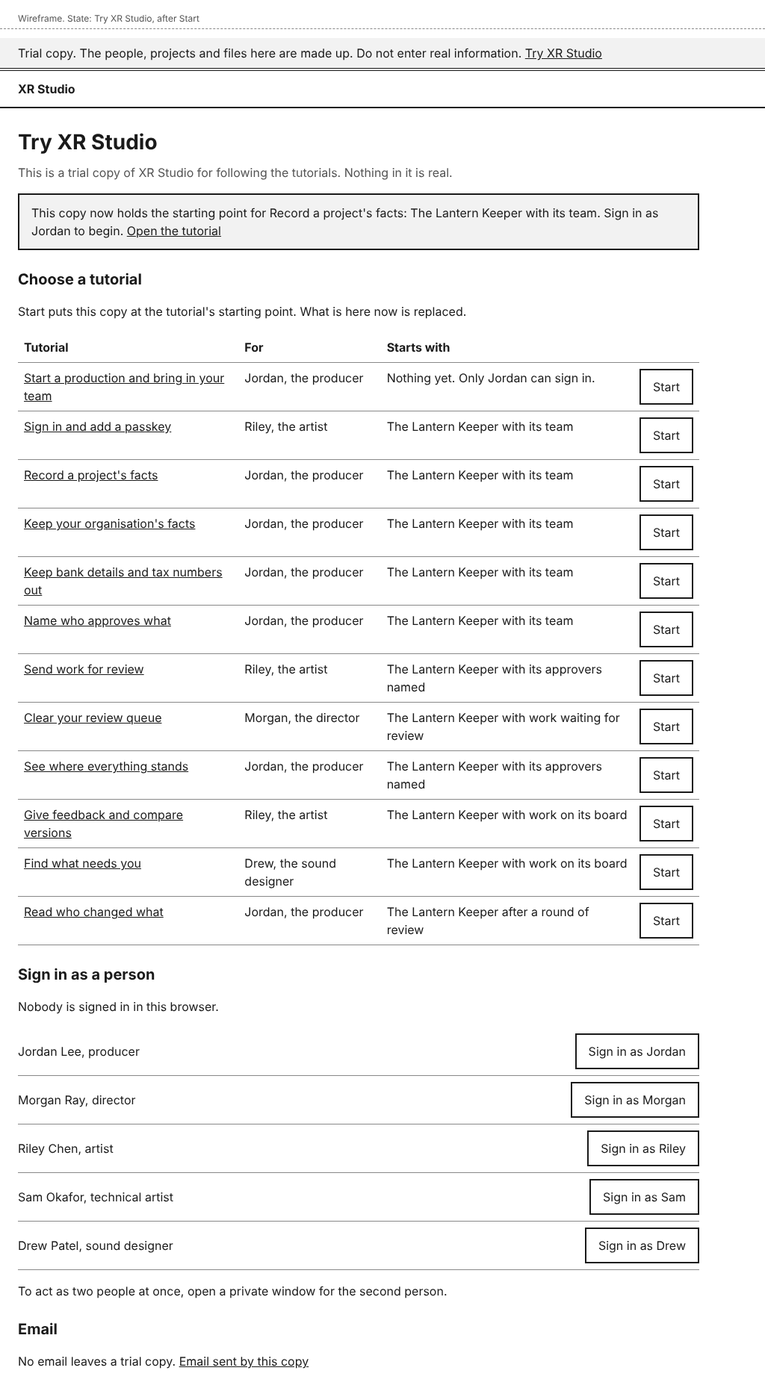
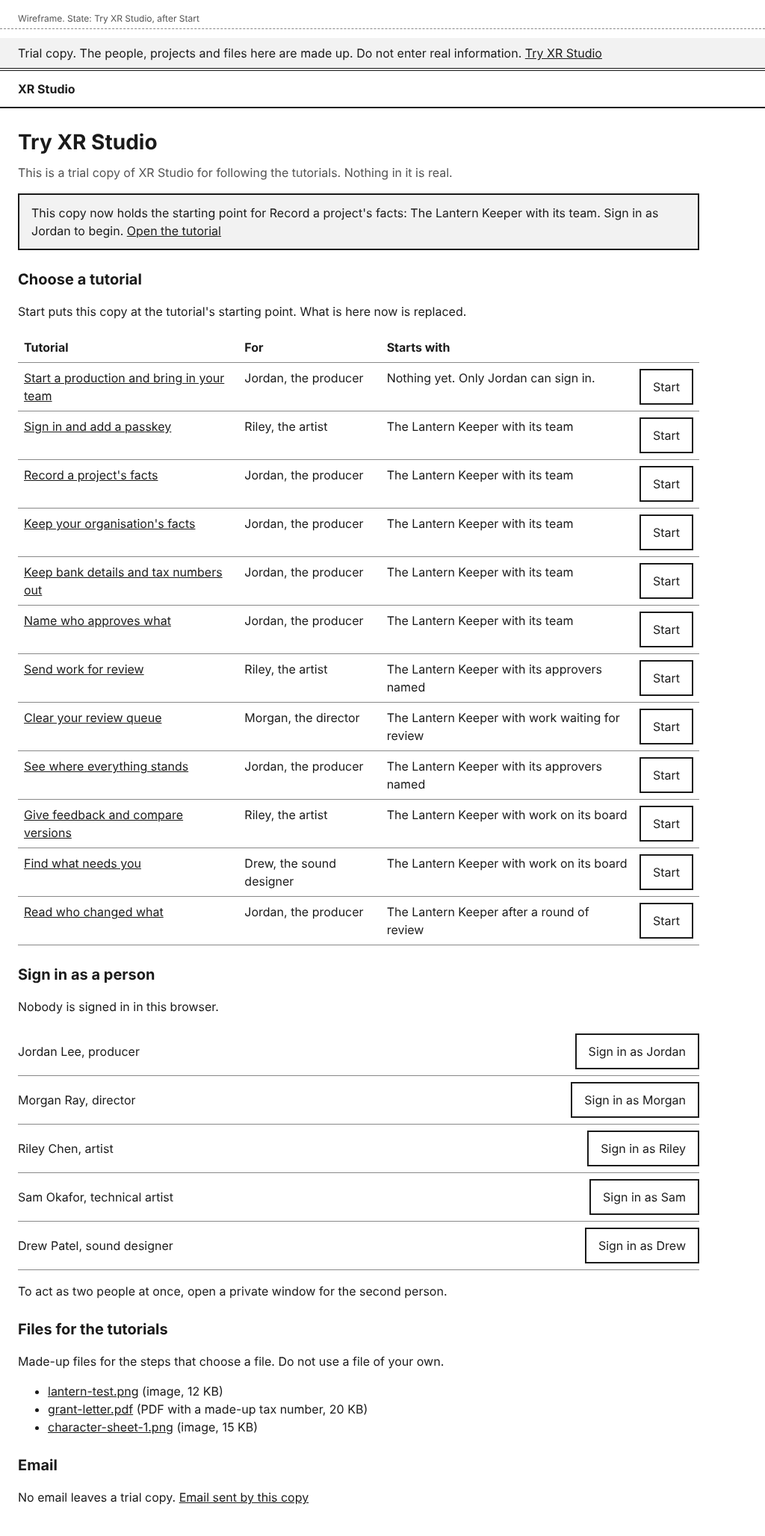
Apply the security review's findings to the Trying the product design
The steps that empty a database check it first and never run in
production; only Start and the preview build can delete append-only
records; preview functions stay in yul1; the tutorials' files are made
up and offered in the trial copy; sign-in is not triggered by prefetch.

Claude-Session: https://claude.ai/code/session_01HWRLNP4p28c1dZHk9yJsYt

diff --git a/docs/design/trying-the-product/try.html b/docs/design/trying-the-product/try.html
@@ -42,6 +42,9 @@
 <li><span>Drew Patel, sound designer</span><span>Not added yet. Jordan adds Drew in the tutorial.</span></li>
 </ul>
 <p>To act as two people at once, open a private window for the second person.</p>
+<h2>Files for the tutorials</h2>
+<p>Made-up files for the steps that choose a file. Do not use a file of your own.</p>
+<ul><li><a href="#" download>lantern-test.png</a> (image, 12 KB)</li><li><a href="#" download>grant-letter.pdf</a> (PDF with a made-up tax number, 20 KB)</li><li><a href="#" download>character-sheet-1.png</a> (image, 15 KB)</li></ul>
 <h2>Email</h2>
 <p>No email leaves a trial copy. <a href="#">Email sent by this copy</a></p>
 </main>

diff --git a/docs/design/trying-the-product/try-started.html b/docs/design/trying-the-product/try-started.html
@@ -43,6 +43,9 @@
 <li><span>Drew Patel, sound designer</span><a class="button secondary" href="#">Sign in as Drew</a></li>
 </ul>
 <p>To act as two people at once, open a private window for the second person.</p>
+<h2>Files for the tutorials</h2>
+<p>Made-up files for the steps that choose a file. Do not use a file of your own.</p>
+<ul><li><a href="#" download>lantern-test.png</a> (image, 12 KB)</li><li><a href="#" download>grant-letter.pdf</a> (PDF with a made-up tax number, 20 KB)</li><li><a href="#" download>character-sheet-1.png</a> (image, 15 KB)</li></ul>
 <h2>Email</h2>
 <p>No email leaves a trial copy. <a href="#">Email sent by this copy</a></p>
 </main>

diff --git a/docs/design/trying-the-product.md b/docs/design/trying-the-product.md
@@ -6,7 +6,7 @@ derived-from:
   - story-project-record-follow-a-tutorial#acceptance-criteria: 61ac0ed21873
   - persona-director#goals: a92ca172be83
   - persona-sound-designer#skills-and-tools: c8a8a4959cf9
-  - design-architecture#trying-the-product: e67e560ceac9
+  - design-architecture#trying-the-product: 713b5821898d
   - design-architecture#amendment-2026-11-13-previews-hold-made-up-data-and-may-be-hosted-outside-canada: e8875ba9ecc8
   - decision-navigation-and-urls#decision: 0eed88adf12e
 ---
@@ -68,9 +68,10 @@ The pages of **Try XR Studio** do not exist outside a trial copy. Opening their 
 ## Layout
 
 - **The trial line.** In a trial copy, every page has one line above the header: "Trial copy. The people, projects and files here are made up. Do not enter real information." followed by the link **Try XR Studio**. It is text on a bordered band, not colour alone, and it is in the page before the skip link's target, so a screen reader reads it once at the top.
-- **Try XR Studio** (`/try`) has no project navigation. It has three parts, in this order:
+- **Try XR Studio** (`/try`) has no project navigation. It has four parts, in this order:
   - **Choose a tutorial**: a table with the columns **Tutorial**, **For**, **Starts with**, and a **Start** button for each row. Each button's accessible name includes the tutorial, for example "Start: Record a project's facts". The tutorial's title links to it in Help.
   - **Sign in as a person**: a line saying who is signed in in this browser ("Nobody is signed in in this browser." or "Signed in as Jordan Lee."), then one row for each of the five people with their role and a link styled as a button: **Sign in as Jordan**, **Sign in as Morgan**, **Sign in as Riley**, **Sign in as Sam**, **Sign in as Drew**. A person who is not on a project yet at this starting point has no button and the text "Not added yet. Jordan adds Riley in the tutorial." Below: "To act as two people at once, open a private window for the second person."
+  - **Files for the tutorials**: a list of the made-up files the tutorials use, each a link that downloads it.
   - **Email**: the link **Email sent by this copy**, and the sentence "No email leaves a trial copy."
 - **The Start dialog** has the heading "Start <tutorial>?", the text "Everything done in this trial copy so far is replaced by the tutorial's starting point: <starting point>. Anyone else using this copy loses what they did.", and the buttons **Keep what is here** and **Start**, in that order.
 - **Email sent by this copy** (`/try/mail`) is a table with **To**, **Subject**, **Sent** and a link **Open** for each message. A message's page shows the same three facts and the text, with its link live, and **Back to email sent by this copy**.
@@ -107,7 +108,7 @@ The pages of **Try XR Studio** do not exist outside a trial copy. Opening their 
 6. Starts the app and prints three lines: that the trial copy is running, the address of **Try XR Studio**, and that Ctrl+C stops and deletes it.
 7. On exit, stops the app, removes the container and deletes the folder.
 
-It refuses a database that holds anything and is not marked as a trial copy (see the third guard below), so it cannot be pointed at real data by mistake.
+Before it migrates anything, it checks that the database is empty or marked as a trial copy (see the third guard below), and stops otherwise, so it cannot be pointed at real data by mistake. "Empty" means no table outside the system schemas. It sets both connection variables from the one address and does not read `web/.env`. The app and the container listen on 127.0.0.1 only, and the database password is made fresh for each run.
 
 The `try:` block for `docs/product/process.yml`:
 
@@ -127,36 +128,44 @@ The lead decided on 2026-11-13 that a preview holding only made-up data may be h
 - **What a preview is.** A Vercel preview deployment of `web/` for each pull request, built with `XR_TRY=1`. Vercel's own protection for previews stays on, so only people on the team can open one.
 - **Its database.** A Postgres database made for that pull request alone and removed when it closes: a Neon database branch, through Neon's integration in the Vercel marketplace, in a United States region `[assumed]`. The integration gives each preview its own `DATABASE_URL` and `DATABASE_URL_UNPOOLED`, the names the app already reads.
 - **Its files and email.** Kept in that same database (design-architecture, "Trying the product"), so a preview has one place that holds data, and removing the database removes everything.
-- **Fresh at each deployment.** The preview's build step empties the database, applies the migrations and loads the first starting point. Every push to the pull request therefore starts the preview again. **Start** does the same for one tutorial at any time.
+- **Fresh at each deployment.** The preview's build step empties the database, applies the migrations and loads the first starting point. Every push to the pull request therefore starts the preview again. **Start** does the same for one tutorial at any time. The step runs only when `tryMode()` says yes. Before it migrates or empties anything, it checks that the database is empty or marked as a trial copy, and stops the build otherwise. A production build never runs it. Emptying removes XR Studio's own tables by name, nothing else.
+- **Its functions** run in `yul1`, as production's do. The function region is one setting for the whole project, so it is not changed for previews.
+- **Its addresses.** In try mode only, the app takes its allowed origins and its passkey address from the address Vercel gives the deployment. Outside try mode they come from `APP_ORIGINS`, as today.
+- **Who can open one.** Members of the Vercel team only. Previews get no shareable links.
 - **How "real data never goes in a preview" is kept:**
   - The preview environment has no production setting, secret or connection. Its only database is its own.
   - Nothing leaves it: email is kept, not sent, so nobody outside can be invited into one.
   - The only accounts that can be signed in to are the five made-up people, plus anyone they add, who can never receive the invitation.
   - The trial line on every page says not to enter real information.
-  - It is deleted with its pull request.
+  - Its database is removed when its pull request closes. Vercel removes the deployment itself after its own retention time.
+  - The tutorials' files are made up too. **Try XR Studio** offers each file a tutorial uses for download, each step that chooses a file names one of them, and each step that types a number gives a made-up one. Nobody needs a file of their own.
   - What this cannot stop: a team member who types real information into a made-up project. The trial line is the guard for that, and the lead accepts it with this design.
 
 ### Signing in as a tutorial's person
 
 The five people are Jordan Lee (producer), Morgan Ray (director), Riley Chen (artist), Sam Okafor (technical artist) and Drew Patel (sound designer), with addresses at `xr.test`, a domain that can never receive mail. They are one list in one file, `web/src/try/people.ts`.
 
-`/try/sign-in?as={name}` takes one of the five first names. It mints a one-time sign-in link for that person inside the app, as the invitation route already does, and follows it at once. So the session is an ordinary session, made by the ordinary sign-in code, and roles are read on every request as always.
+`/try/sign-in?as={name}` takes one of the five first names. It mints a one-time sign-in link for that person inside the app, as the invitation route already does, and follows it at once. So the session is an ordinary session, made by the ordinary sign-in code, and roles are read on every request as always. The path checks that the person may sign in, as the sign-in form does, so a person whose last dashboard role was removed is refused. It answers with `Cache-Control: no-store`, the **Sign in as** links are plain links that the browser does not fetch ahead, and a request marked as a prefetch is refused, so nobody is signed in and no invitation is accepted without a selection.
 
 The guide's four conditions, and how each is met:
 
 1. **It exists only in a build started for trying.** Three guards, each enough alone:
-   - *The build.* The pages and routes under `/try` are in files with their own extension, which `next.config.ts` includes only when `XR_TRY=1` at build time `[assumed]`. A build without the setting has no such routes.
+   - *The build.* The pages and routes under `/try`, and the **Start** action, are in files with their own extension, which `next.config.ts` includes only when `XR_TRY=1` at build time `[assumed]`. A build without the setting has no such routes. The code those files call (the loader, the stand-ins, accepting an invitation without its link) is in ordinary files, so each of those functions asks `tryMode()` and checks the mark itself before it does anything. If the installed Next.js cannot leave the files out, this guard does not exist, condition 1 rests on the other two, and the spec says so for the lead to accept or refuse.
    - *The setting at run time.* One function, `tryMode()`, is asked by every try page, route and transport before anything else. Without `XR_TRY=1` it answers no, and the page answers 404.
-   - *The database.* Loading a starting point marks the database as a trial copy, in `app_meta`. Sign-in as a person, **Start** and the loader refuse a database without the mark, and the loader refuses to mark a database that already holds anything.
-2. **It is refused when the production setting is on, whatever else is set.** The production setting is `XR_PRODUCTION=1`, set in the production environment, or `VERCEL_ENV=production`, which Vercel sets itself. `tryMode()` checks these first and answers no, even with `XR_TRY=1`. The app also writes an error to its log at start-up when both are set.
+   - *The database.* Loading a starting point marks the database as a trial copy, in `app_meta`. Sign-in as a person, **Start** and the loader refuse a database without the mark, and the loader refuses to mark a database that already holds anything. The loader also refuses when the production setting is on. A production instance that finds the mark in its database refuses to start, and its health check fails, so a database that was ever a trial copy cannot become production's.
+2. **It is refused when the production setting is on, whatever else is set.** The production setting is `XR_PRODUCTION` with any value other than empty or `0`, set in the production environment, or `VERCEL_ENV=production`, which Vercel sets itself. `tryMode()` checks these first and answers no, even with `XR_TRY=1`. The app also writes an error to its log at start-up when both are set.
 3. **It lists only those people, with fixture data.** The path accepts only the five first names in the list, never an address or an id. It signs in only an account whose address is that person's in the list. A person added to a trial copy under any other address cannot be signed in to this way.
-4. **A test proves the path answers 404 without the setting.** The ordinary end-to-end suite runs against a build without `XR_TRY`. It asks for `/try`, `/try/sign-in?as=Jordan`, `/try/mail` and the **Start** action, and expects **This page is not available** with status 404 for each. Unit tests cover `tryMode()` for every combination of the three settings, and one test reads the ordinary build's list of routes and fails if any begins `/try`.
+4. **A test proves the path answers 404 without the setting.** The ordinary end-to-end suite runs against a build without `XR_TRY`. It asks for `/try`, `/try/sign-in?as=Jordan`, `/try/mail` and the **Start** action, and expects **This page is not available** with status 404 for each. Unit tests cover `tryMode()` for every combination of the three settings, and one test reads the ordinary build's list of routes and fails if any begins `/try`. The same requests are made to a try build started with the production setting on, each way of setting it, and expect 404; **Start** is refused there, and the build step and the loader refuse.
 
 The path signs a browser in from a link, with no form. That is accepted in a trial copy because the people are made up. The change that adds it gets a security review against these four points.
 
 ### What stands in for each outside service
 
 The table is in design-architecture, "Trying the product", where the lead approves it with the architecture: the database, the web functions, object storage, email, scheduled jobs and passkeys, with what each stand-in hides. In short: no email leaves a trial copy; a preview keeps files in its database, 4 MB at most; scheduled jobs do not run; a passkey belongs to the one copy it was made in.
+
+### Start and the append-only records
+
+**Start** and the preview's build step remove everything, including the activity log and the other records the app's own database role can never delete. They connect as the database's owner, through `DATABASE_URL_UNPOOLED`, and only they do. The production runtime is given no `DATABASE_URL_UNPOOLED`: production's migrations run in their own step, outside the app. So in production the code that empties has no connection able to do it, whatever else fails. Inside a trial copy the append-only rules hold for everything except **Start**.
 
 ### Starting points
 
@@ -166,6 +175,7 @@ A starting point is the result of a tutorial that others start from. The loader 
 
 - The help is built from `docs/user/` and `docs/tutorials/` at each build, with the map from `checks/docs-map.mjs --json`, and served under `/help`. Approved pages only.
 - **Help** opens the page whose `covers:` matches the current address, or else the overview of the area whose pages cover the nearest address above it, or else the start page.
+- Raw HTML in a page is shown as text, never run. Only the pages and images in the map are built, at build time; no file is read from a path made from the address.
 - Help pages hold no project data, so they open signed in or signed out. A link to a tutorial that Jordan sends therefore opens for a new person at once.
 - **How does the system know?** Nothing is stored: the help is the files, and the match is made from the address.
 - **What enforces each promise?**
@@ -212,7 +222,7 @@ Steps the runner cannot do are written as manual steps, last in their tutorial, 
 Build in this order. Each step ends with something that runs.
 
 1. **The try command and sign-in.** `tryMode()` and its tests first, then the three guards, the mail and file stand-ins, the starting-point loader for the first starting point, **Try XR Studio**, `pnpm run try`, and the `try:` block in `process.yml` in the same pull request. The pull request touches `docs/product/`, so it waits for the lead's review. It gets a security review against the four conditions (rfr-core's `security-reviewer`).
-2. **Previews.** The Vercel project and its preview database are the lead's to connect; see the checks below. Then copy `rfr-tutorials-preview.yml` from the rfr-process templates, so the tutorials run on each preview and the recording is kept.
+2. **Previews.** The Vercel project and its preview database are the lead's to connect; see the checks below. Then copy `rfr-tutorials-preview.yml` from the rfr-process templates, so the tutorials run on each preview and the recording is kept. In the copy, pass only the `RFR_PREVIEW_BYPASS` secret, not every secret, and pin the workflow and `rules-ref` to one commit: the bypass token with the sign-in path opens every preview.
 3. **The tutorials.** Write the twelve as `runner: web`, each with its starting point in the loader, and run them with `tutorial-run` against the try command's product. Add **Try it** to each user documentation page, linking its tutorial: sign-in to 2; your-projects, organisations-and-projects and people-and-roles to 1; project-facts to 3; organisation-facts to 4; identifier-formats to 5; approvers to 6; review to 7 and 8; board to 9; versions-and-feedback to 10; what-needs-you to 11; activity to 12.
 4. **Remove what they replace.** `web/e2e/tutorial-board.spec.ts`, `tutorial-facts.spec.ts` and `tutorial-review.spec.ts`, and the four old tutorials, in the pull request where the new ones pass.
 5. **Turn the rules on.** Set `lasting-tutorials: fail` in the `with:` of `.github/workflows/rfr-process.yml` once the tutorials pass the rules.
@@ -224,13 +234,16 @@ What the delivery must know:
 - **The runner signs in by first name.** `Sign in as **Jordan**.` opens `/try/sign-in?as=Jordan`.
 - **Moving `docs/user/sign-in.md` changed one test's path** (`web/test/emails.test.ts` reads the page). No assertion changed.
 - **Four user documentation pages end with stray lines** (`</content>`, and `</invoke>` in people-and-roles). They were there before this packet and will show in Help. Remove them in step 6, as a revision.
+- The spec also settles: whether the trial line and the `/try` pages are rendered at build time, which would decide `tryMode()` at build and not at run time; how an invitation is accepted without its link, in a function that is try-only; and that `.env.example` and AGENTS.md gain the new settings in the same pull request.
+- Found in review, outside this design: `web/src/db/client.ts` only logs when `set role xr_app` fails and carries on as the login user. It needs its own fix.
 - `[assumed]` items are checked against the installed versions and the vendors' documentation when the spec is written. If the build guard cannot be made with `pageExtensions`, the other two guards stand and the spec says so.
 
 Checks only a person can do, for the lead's validation list:
 
 - Connect the repository to a Vercel project if it is not connected, add the Neon integration with a database branch for each preview, and set `XR_TRY=1` and the trial secrets for the Preview environment only. An agent may do this through the Vercel tools only after the lead says so (NODE-002).
+- Confirm the Neon integration is connected to the Preview environment only, that its database branch is deleted when a pull request closes, and that no variable set for Production is also set for Preview. The preview's secrets are values of their own.
 - Save the preview bypass token as the `RFR_PREVIEW_BYPASS` repository secret.
-- Open the production environment's settings and confirm `XR_TRY` is absent and `XR_PRODUCTION=1` is set, before the first production deployment.
+- Open the production environment's settings and confirm `XR_TRY` and `DATABASE_URL_UNPOOLED` are absent, `XR_PRODUCTION=1` is set, and the database addresses are Aurora's in ca-central-1, before the first production deployment. Confirm that database has never been used as a trial copy.
 - Follow tutorials 3 to 12 on a preview, to validate slices 2, 3 and 4.
 - The first-task test with a person new to the pipeline (design-what-needs-you) is still owed. It moves out of the tutorial and stays on this list.
 - A manual pass of **Try XR Studio** and one help page with a screen reader.
@@ -241,3 +254,4 @@ Checks only a person can do, for the lead's validation list:
 - The app's `SET ROLE xr_app` holds on the preview database's connections. If the pooled address does not keep it, the preview uses the direct address for both variables `[assumed]`.
 - `pageExtensions` in the installed Next.js can leave the `/try` files out of a build `[assumed]`.
 - Vercel runs scheduled jobs for production deployments only `[assumed]`.
+- Vercel uses one build command and one function region for every environment of a project, and its shareable links pass the preview protection `[assumed]`. The guards above are written as if all three are true.

diff --git a/docs/design/architecture.md b/docs/design/architecture.md
@@ -178,8 +178,8 @@ Each external service the deployed product uses has a stand-in in a trial copy. 
 
 | Service in the deployed product | Local trial copy | Preview | What the stand-in hides |
 |---|---|---|---|
-| Record database: Aurora PostgreSQL in ca-central-1 | PostgreSQL in a container that the command starts and removes | A Postgres database made for that pull request only, at a managed provider outside Canada, removed when the pull request closes | Aurora's own behaviour: failover, point-in-time recovery, how its login user joins the `xr_app` role, and the latency of the Canadian region. The same migrations create `xr_app` and `xr_retention` in every place, so the append-only rules are real in a trial copy. |
-| Web functions: Vercel, region `yul1` | The production build, run on the person's machine | A Vercel preview deployment, with its functions in the region nearest the preview's database, not `yul1` | Cold starts and regional latency. In a preview, hosting in Canada. |
+| Record database: Aurora PostgreSQL in ca-central-1 | PostgreSQL in a container that the command starts and removes | A Postgres database made for that pull request only, at a managed provider outside Canada, removed when the pull request closes | Aurora's own behaviour: failover, point-in-time recovery, how its login user joins the `xr_app` role, and the latency of the Canadian region. The same migrations create `xr_app` and `xr_retention` in every place, so the append-only rules are real in a trial copy, except that **Start** empties the copy as the database's owner (design-trying-the-product). |
+| Web functions: Vercel, region `yul1` | The production build, run on the person's machine | A Vercel preview deployment, with its functions in `yul1` like production's | Locally, cold starts and regional latency. In a preview, the short distance between the functions and the database: the preview's database is further away. |
 | Object storage: S3 with Object Lock and AWS KMS in ca-central-1 (the S3 transport is not built yet) | A folder that the command creates and removes | The preview's own database: file bytes are kept in a table, with a limit of 4 MB for each file | Upload from the browser straight to storage through a signed address; in a preview, files up to 2 GB and the progress bar on a long upload; Object Lock; encryption with KMS. |
 | Email: Amazon SES in ca-central-1 (not built yet) | Nothing is sent. Each message is kept in the trial copy's database and listed on its **Email sent by this copy** page. | The same | Delivery: bounces, spam filters, security scanners that use up a single-use link, how a message looks in a mail program, and sending limits. |
 | Scheduled jobs: Vercel Cron (deleting held uploads every 5 minutes; later digests, backups and retention) | Not run | Not run | A held file is not deleted after 24 hours in a trial copy. It is already hidden and cannot be confirmed after that time. The job has its own tests. |

diff --git a/docs/decisions/claude-trying-the-product.md b/docs/decisions/claude-trying-the-product.md
@@ -12,6 +12,19 @@ This packet moves XR Studio In A Box onto lasting tutorials, a place to try the 
 6. **Help is proposed, and is the last delivery step.** The `/help` pages and the Help link are in the design because the second story needs them, and because the lasting-tutorials spec says the help ships with the product. Step 6 can follow the lead's validation of slices 2 to 4. If the lead wants it left out, remove step 6, the three help mock-ups and `docs/user/help/help-and-tutorials.md`.
 7. **Twelve tutorials from four.** One for each task, as the spec asks. The table in the design says which steps each takes over. Fewer, longer tutorials would be quicker to validate once and slower to keep.
 
+## Changed after the independent reviews
+
+A persona walkthrough and a security review read the packet before it was pushed. What changed:
+
+- Tutorial 1 adds all four other people; the design says how the lead reaches a protected preview, and that **Start** signs everyone out; three mock-ups were added.
+- The step that empties a preview's database, the local command and **Start** check the database before they touch it, and never run with the production setting on. A production instance refuses to start on a database marked as a trial copy.
+- Only **Start** and the build step can delete the append-only records, as the database's owner, and production's runtime gets no owner connection.
+- Preview functions stay in `yul1`: the function region is one setting for the whole project, so moving it for previews would move production.
+- The tutorials' files are made up and offered on **Try XR Studio**, so nobody uploads a file of their own to a preview.
+- Sign-in as a person is not triggered by a prefetch, and checks that the person may sign in.
+- The lead's checks gained: the Neon integration on Preview only, no shared secrets, and no shareable links.
+- Not acted on: the walkthrough asked that decision-navigation-and-urls and design-dashboard-shell be amended for `/try`, `/help` and the Help link. Many approved artifacts link to both, so the design states the additions and both take them in at their next revision.
+
 ## Other choices
 
 8. **Stories.** No approved story fitted, so two were added: `story-project-record-try-from-a-link` for Morgan, the director, and `story-project-record-follow-a-tutorial` for Drew, the sound designer. The lead is not a persona; persona-director's evidence says it is close to a self-description of the approver, so the lead's validation is written as Morgan's. Both are in epic-project-record, because no epic is about learning the product and the first pages a new person meets are in that one. The alternative is an epic of its own, which needs requirements that do not exist yet.

diff --git a/docs/user/help/trying-xr-studio.md b/docs/user/help/trying-xr-studio.md
@@ -2,7 +2,7 @@
 id: docs-trying-xr-studio
 status: approved
 derived-from:
-  - design-trying-the-product: bd5c78fd5a86
+  - design-trying-the-product: f491f059413f
   - story-project-record-try-from-a-link#acceptance-criteria: 74fb3e25a279
 covers:
   - /try
@@ -19,7 +19,7 @@ Every page of a trial copy has this line at the top: "Trial copy. The people, pr
 
 ## Open a trial copy
 
-1. Open the link to the trial copy. It is in the description of the change you were asked to decide on, under "Try it", with the tutorials to follow. If you are asked to sign in to Vercel first, do so; if you cannot, ask the person who sent you the change for access. **Sign in** opens, with the trial line above it.
+1. Open the link to the trial copy. It is in the description of the change you were asked to decide on, under "Try it", with the tutorials to follow. If you are asked to sign in to Vercel first, do so. A trial copy opens only for members of the team's Vercel account; if you are not one, ask the project lead. **Sign in** opens, with the trial line above it.
 2. Select **Try XR Studio** in the trial line.
 
 ![Try XR Studio](../../design/trying-the-product/try.png)
@@ -48,6 +48,10 @@ Under "Sign in as a person" there are five made-up people: Jordan Lee, producer;
 To act as two people at once, open a private window for the second person, open **Try XR Studio** there, and select them.
 
 A person who has not been added to a project yet has no button. The page says, for example, "Not added yet. Jordan adds Riley in the tutorial." Once Jordan adds Riley, select **Sign in as Riley**: it accepts Riley's invitation, as the link in the email would.
+
+## Use the tutorials' files
+
+Where a tutorial asks you to choose a file, use the made-up file it names. **Try XR Studio** lists them under "Files for the tutorials", each with a link to download it. Do not use a file of your own.
 
 ## Read the email a trial copy would have sent
 

diff --git a/docs/user/help/help-and-tutorials.md b/docs/user/help/help-and-tutorials.md
@@ -2,7 +2,7 @@
 id: docs-help-and-tutorials
 status: approved
 derived-from:
-  - design-trying-the-product: bd5c78fd5a86
+  - design-trying-the-product: f491f059413f
   - story-project-record-follow-a-tutorial#acceptance-criteria: 61ac0ed21873
 covers:
   - /help

diff --git a/docs/user/help/README.md b/docs/user/help/README.md
@@ -2,7 +2,7 @@
 id: docs-area-help
 status: approved
 derived-from:
-  - design-trying-the-product#layout: c5c0ea94204e
+  - design-trying-the-product#layout: a23f0b1cfcec
   - decision-navigation-and-urls#decision: 0eed88adf12e
 ---
 
